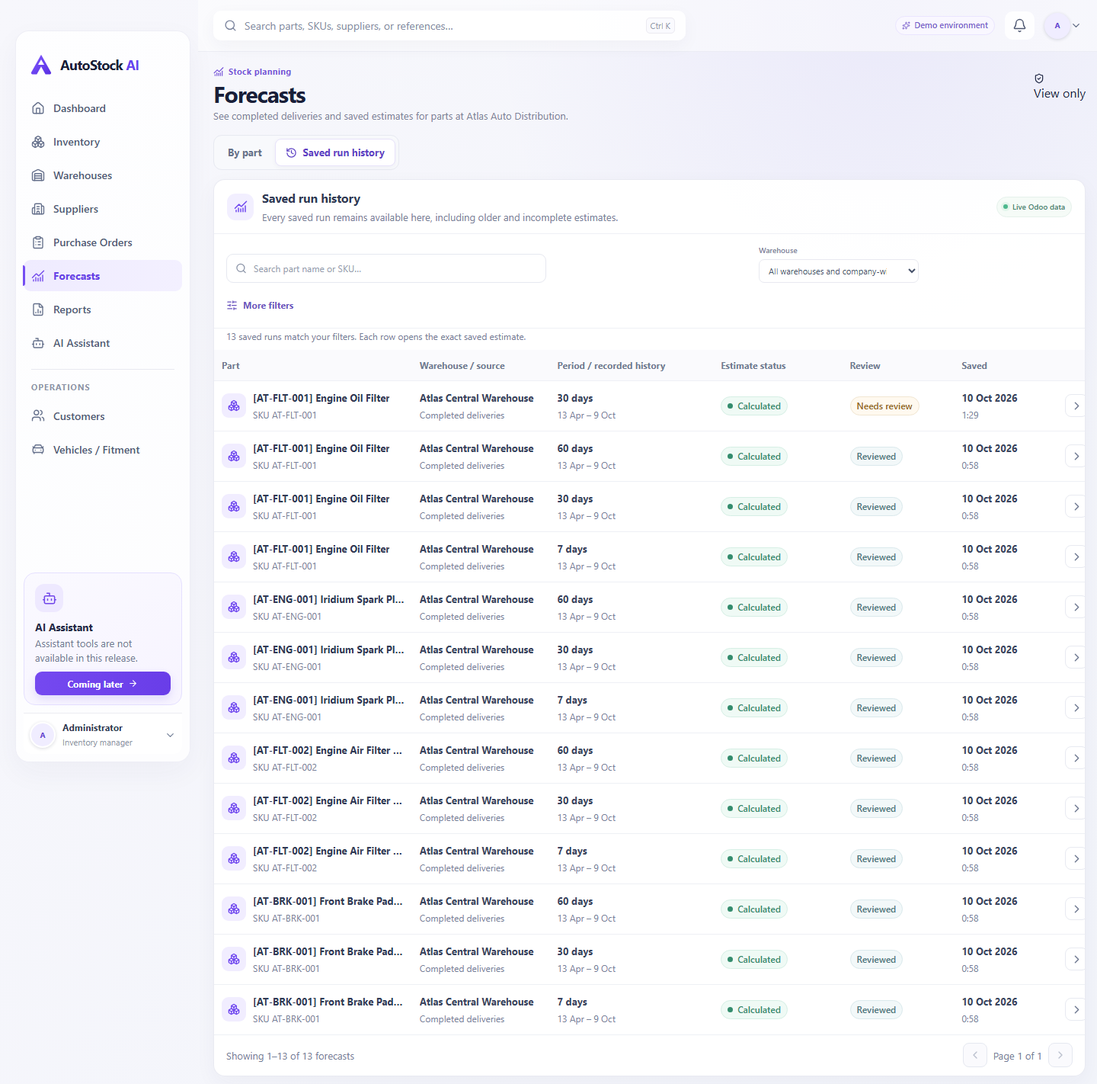
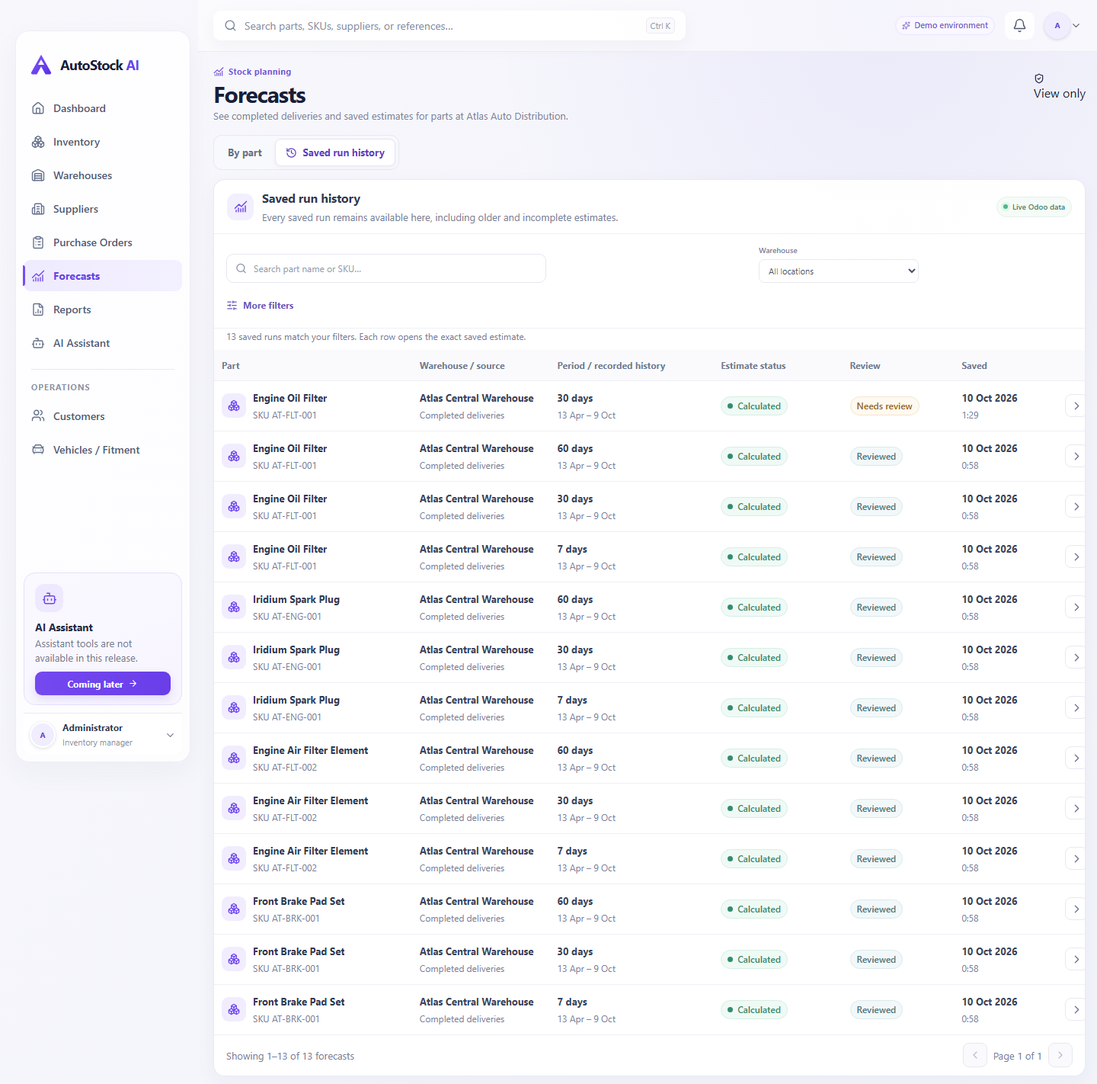
Polish employee Forecasts labels

diff --git a/frontend/src/routes/forecasts.tsx b/frontend/src/routes/forecasts.tsx
@@ -19,7 +19,7 @@ import { ProductSearchDialog, type ProductSearchItem } from '@/components/gate-t
 import { WorkspaceSession, type WorkspaceSessionValue } from '@/components/workspace-session'
 import { useDebounce } from '@/hooks/use-debounce'
 import { formatQuantity } from '@/lib/dashboard'
-import { buildForecastChartPoints, formatForecastDate, formatForecastDateTime, formatForecastTime, type ForecastChartPoint } from '@/lib/forecasts'
+import { buildForecastChartPoints, formatEmployeeForecastTotal, formatForecastDate, formatForecastDateTime, formatForecastTime, type ForecastChartPoint } from '@/lib/forecasts'
 import '@/styles/inventory.css'
 import '@/styles/forecasts.css'
 
@@ -119,19 +119,6 @@ function PartPagination({ page, hasPrevious, hasNext, onPage }: {
   return <div className="forecast-pagination" aria-label="Part results pages"><span>Part results · page {page}</span><div><button type="button" aria-label="Previous part results page" disabled={!hasPrevious} onClick={() => onPage(page - 1)}><ChevronLeft size={16} /></button><span>Page {page}</span><button type="button" aria-label="Next part results page" disabled={!hasNext} onClick={() => onPage(page + 1)}><ChevronRight size={16} /></button></div></div>
 }
 
-function formatEstimatedUnits(value: number, rounding: number) {
-  let scaled = rounding
-  let decimalPlaces = 0
-  while (decimalPlaces < 6 && Math.abs(scaled - Math.round(scaled)) > 1e-8) {
-    scaled *= 10
-    decimalPlaces += 1
-  }
-  return new Intl.NumberFormat(undefined, {
-    minimumFractionDigits: decimalPlaces,
-    maximumFractionDigits: decimalPlaces,
-  }).format(value)
-}
-
 function partEstimateMessage(entry: ForecastPartHorizon) {
   if (!entry.latest_run) return `No ${entry.horizon_days}-day estimate is saved for this part and warehouse.`
   if (entry.estimate.status === 'available') return ''
@@ -176,7 +163,7 @@ function ForecastPartRow({ part, view, timezone, onShowHistory }: {
       {run && <div className="forecast-part-statuses"><ForecastPill run={run as ForecastListRun} /><span className={`forecast-review ${run.review_status === 'reviewed' ? 'is-reviewed' : 'is-unreviewed'}`}>{reviewLabel(run.review_status)}</span></div>}
       {estimate.status === 'available' && run && estimate.estimated_units !== false && estimate.uom_rounding !== false && estimate.uom ? <>
         <span className="forecast-part-field-label">Estimated deliveries</span>
-        <strong className="forecast-estimate-total" data-testid="forecast-estimated-total">{formatEstimatedUnits(estimate.estimated_units, estimate.uom_rounding)} {estimate.uom}</strong>
+        <strong className="forecast-estimate-total" data-testid="forecast-estimated-total">{formatEmployeeForecastTotal(estimate.estimated_units, estimate.uom_rounding, estimate.uom)}</strong>
         <span className="forecast-estimate-range" data-testid="forecast-estimate-range">{dateRange}</span>
         {estimate.window_status === 'ended' && <small className="forecast-window-note">This saved estimate period has ended.</small>}
         {estimate.window_status === 'in_progress' && <small className="forecast-window-note">This saved estimate period is in progress.</small>}
@@ -246,7 +233,7 @@ function ForecastOverview({ companyId, session, onSwitchCompany, onSignOut }: Wo
         <div className="forecast-catalog-heading"><div className="inventory-catalog-title"><span className="inventory-catalog-icon"><ChartNoAxesCombined size={18} aria-hidden="true" /></span><div><h2 id="forecast-list-title">{view === 'parts' ? 'Forecasts by part' : 'Saved run history'}</h2><p>{view === 'parts' ? 'Choose a part and period to see its latest saved estimate.' : 'Every saved run remains available here, including older and incomplete estimates.'}</p></div></div><span className="inventory-live-mark"><i aria-hidden="true" /> Live Odoo data</span></div>
         <div className="forecast-filter-area">
           <label className="inventory-search-field"><Search size={16} aria-hidden="true" /><span className="sr-only">{view === 'parts' ? 'Search forecast parts by name or SKU' : 'Search saved forecasts by part name or SKU'}</span><input value={query} onChange={(event) => { setQuery(event.target.value); setPartsPage(1); setHistoryPage(1) }} placeholder="Search part name or SKU…" type="search" autoComplete="off" />{query && <button type="button" aria-label="Clear forecast search" onClick={() => { setQuery(''); setPartsPage(1); setHistoryPage(1) }}>Clear</button>}</label>
-          <label className="inventory-select-wrap forecast-warehouse-control"><span>Warehouse</span><select aria-label="Choose forecast warehouse" value={warehouseId ?? ''} onChange={(event) => { setWarehouseId(event.target.value ? Number(event.target.value) : undefined); setPartsPage(1); setHistoryPage(1) }}><option value="">All warehouses and company-wide</option>{warehouseOptions?.map((warehouse) => <option key={warehouse.id} value={warehouse.id}>{warehouse.name}</option>)}</select></label>
+          <label className="inventory-select-wrap forecast-warehouse-control"><span>Warehouse</span><select aria-label="Choose forecast warehouse" aria-describedby="forecast-warehouse-help" value={warehouseId ?? ''} onChange={(event) => { setWarehouseId(event.target.value ? Number(event.target.value) : undefined); setPartsPage(1); setHistoryPage(1) }}><option value="">All locations</option>{warehouseOptions?.map((warehouse) => <option key={warehouse.id} value={warehouse.id}>{warehouse.name}</option>)}</select><span id="forecast-warehouse-help" className="sr-only">Includes warehouse-specific and company-wide forecasts.</span></label>
           {view === 'history' && <details className="forecast-advanced-filters"><summary><SlidersHorizontal size={15} aria-hidden="true" />More filters</summary><div className="forecast-advanced-grid">
             <label className="inventory-select-wrap"><span>Forecast period</span><select aria-label="Filter forecasts by horizon" value={horizonDays} onChange={(event) => { setHorizonDays(event.target.value === 'all' ? 'all' : Number(event.target.value) as 7 | 30 | 60); setHistoryPage(1) }}><option value="all">All periods</option><option value="7">7 days</option><option value="30">30 days</option><option value="60">60 days</option></select></label>
             <label className="inventory-select-wrap"><span>Estimate status</span><select aria-label="Filter forecasts by run status" value={state} onChange={(event) => { setState(event.target.value as RunState); setHistoryPage(1) }}><option value="all">All statuses</option><option value="queued">Waiting to run</option><option value="running">Calculating</option><option value="completed">Calculated</option><option value="insufficient_history">Not enough history</option><option value="no_observed_demand">No deliveries recorded</option><option value="failed">Could not calculate</option></select></label>
@@ -312,7 +299,7 @@ function ForecastChart({ run, timezone }: { run: ForecastDetailData['run']; time
   if (!run.observations.length && !run.predictions.length) return <ForecastState title="No chart data is available">This saved run has no recorded daily deliveries or forecast points to display.</ForecastState>
 
   return <section className="forecast-chart-panel panel" aria-labelledby="forecast-chart-title">
-    <div className="forecast-detail-section-heading"><div><span className="inventory-catalog-icon"><ChartNoAxesCombined size={18} aria-hidden="true" /></span><div><h2 id="forecast-chart-title">Past deliveries and saved estimate</h2><p>Past bars show completed deliveries. The line shows the saved estimate after that history.</p></div></div><span className="forecast-chart-uom">{run.uom || 'Synthetic units'} per day</span></div>
+    <div className="forecast-detail-section-heading"><div><span className="inventory-catalog-icon"><ChartNoAxesCombined size={18} aria-hidden="true" /></span><div><h2 id="forecast-chart-title">Past deliveries and saved estimate</h2><p>The gray line shows past deliveries; the purple dashed line shows the saved estimate.</p></div></div><span className="forecast-chart-uom">{run.uom || 'Synthetic units'} per day</span></div>
     {run.source_type === 'completed_deliveries' && <p className="forecast-demand-note"><CircleHelp size={14} aria-hidden="true" />Completed deliveries are a fulfilled-sales record, not a measure of all customer demand. Stockouts can limit what the history shows.</p>}
     <div className="forecast-chart-legend"><span><i className="is-history" />Completed deliveries</span><span><i className="is-future" />Saved estimate</span>{run.predictions.length > 0 && <span><i className="is-range" />Planning range</span>}</div>
     <div className="forecast-chart-wrap" role="img" aria-label={`Daily completed deliveries and forecast for ${run.product_name}`} data-first-forecast-day={firstPrediction?.day} data-first-forecast-units={firstPrediction ? String(firstPrediction.units) : undefined} data-first-forecast-lower={firstPrediction ? String(firstPrediction.lower_heuristic) : undefined} data-first-forecast-upper={firstPrediction ? String(firstPrediction.upper_heuristic) : undefined}>
@@ -376,7 +363,7 @@ function ForecastEstimateSummary({ detail, timezone }: { detail: ForecastDetailD
   return <section className="forecast-estimate-summary panel" aria-label="Selected forecast summary">
     <div className="forecast-summary-main">
       <div className="forecast-summary-period"><span>Selected period</span><strong>{count(run.horizon_days)} days</strong><small>{isAvailable ? `${formatForecastDate(estimate.date_start as string, timezone, { year: 'numeric' })} – ${formatForecastDate(estimate.date_end as string, timezone, { year: 'numeric' })}` : 'Saved date range is unavailable'}</small>{isAvailable && <small className="forecast-summary-window">{estimate.window_status === 'ended' ? 'This saved period has ended.' : estimate.window_status === 'in_progress' ? 'This saved period is in progress.' : `This saved period starts ${formatForecastDate(estimate.date_start as string, timezone, { year: 'numeric' })}.`}</small>}</div>
-      <div className="forecast-summary-total" aria-live="polite"><span>{isAvailable ? 'Estimated deliveries' : 'Estimate total'}</span>{isAvailable ? <strong data-testid="forecast-estimated-total">{formatEstimatedUnits(estimate.estimated_units as number, estimate.uom_rounding as number)} {estimate.uom}</strong> : <p data-testid="forecast-estimate-unavailable">{detailEstimateMessage(estimate, run)}</p>}</div>
+      <div className="forecast-summary-total" aria-live="polite"><span>{isAvailable ? 'Estimated deliveries' : 'Estimate total'}</span>{isAvailable ? <strong data-testid="forecast-estimated-total">{formatEmployeeForecastTotal(estimate.estimated_units as number, estimate.uom_rounding as number, estimate.uom as string)}</strong> : <p data-testid="forecast-estimate-unavailable">{detailEstimateMessage(estimate, run)}</p>}</div>
     </div>
     <p className="forecast-restock-summary"><CircleHelp size={15} aria-hidden="true" />{restockSummary(guidance.status)}</p>
   </section>

diff --git a/frontend/tests/browser/forecasts.spec.ts b/frontend/tests/browser/forecasts.spec.ts
@@ -16,7 +16,7 @@ function session() {
 
 function estimate(status: 'missing' | 'incomplete' | 'not_completed' | 'available', horizon: 7 | 30 | 60) {
   if (status === 'available') return {
-    status, estimated_units: horizon * 2.4, uom: 'Units', uom_rounding: 1,
+    status, estimated_units: horizon === 30 ? 26.4 : horizon * 2.4, uom: 'Units', uom_rounding: 0.01,
     date_start: '2026-09-27', date_end: horizon === 7 ? '2026-10-03' : horizon === 30 ? '2026-10-26' : '2026-11-25',
     window_status: 'in_progress',
   }
@@ -180,12 +180,32 @@ test('part-first Forecasts fits desktop, tablet and mobile and sends search and 
   expect(browserErrors).toEqual([])
 })
 
+test('employee labels keep SKU separate, show approximate totals, explain the chart, and name all locations clearly', async ({ page }) => {
+  await installForecastRoutes(page)
+  await page.setViewportSize({ width: 1440, height: 1000 })
+  await page.goto('/forecasts')
+
+  const row = page.locator('.forecast-part-row[data-product-id="1001"][data-warehouse-id="10"]')
+  await expect(row.locator('.forecast-part-identity strong')).toHaveText('Front Brake Pad Set')
+  await expect(row.locator('.forecast-part-identity small')).toHaveText('SKU BP-FR-420')
+  await expect(row.getByTestId('forecast-estimated-total')).toHaveText('About 26.4 Units expected')
+  const warehouse = page.getByRole('combobox', { name: 'Choose forecast warehouse' })
+  await expect(warehouse.locator('option').first()).toHaveText('All locations')
+  await expect(warehouse).toHaveAttribute('aria-describedby', 'forecast-warehouse-help')
+  await expect(page.locator('#forecast-warehouse-help')).toHaveText('Includes warehouse-specific and company-wide forecasts.')
+
+  await row.getByRole('link', { name: /Open 30-day estimate/ }).click()
+  await expect(page.getByRole('heading', { name: 'Front Brake Pad Set', exact: true })).toBeVisible()
+  await expect(page.getByTestId('forecast-estimated-total')).toHaveText('About 26.4 Units expected')
+  await expect(page.getByText('The gray line shows past deliveries; the purple dashed line shows the saved estimate.')).toBeVisible()
+})
+
 test('forecast period controls show saved totals only for full daily series', async ({ page }) => {
   await installForecastRoutes(page)
   await page.setViewportSize({ width: 1440, height: 1000 })
   await page.goto('/forecasts')
   const row = page.locator('.forecast-part-row').filter({ hasText: 'Atlas Central Warehouse' }).first()
-  await expect(row.getByTestId('forecast-estimated-total')).toContainText('72 Units')
+  await expect(row.getByTestId('forecast-estimated-total')).toHaveText('About 26.4 Units expected')
   await expect(row.getByTestId('forecast-estimate-range')).toContainText('Sep 27, 2026')
   await row.getByRole('button', { name: '60 days' }).click()
   await expect(row).toContainText('A complete daily estimate is not available, so a total cannot be shown.')
@@ -211,7 +231,7 @@ test('saved history separates synthetic examples and exposes every review and ru
   await expect(page.locator('.forecast-table tbody tr').first()).toContainText('Needs review')
 })
 
-test('forecast detail leads with the exact saved estimate and keeps evidence collapsed', async ({ page }) => {
+test('forecast detail leads with an approximate saved estimate and keeps evidence collapsed', async ({ page }) => {
   await installForecastRoutes(page)
   const writes: string[] = []
   const browserErrors: string[] = []
@@ -223,7 +243,7 @@ test('forecast detail leads with the exact saved estimate and keeps evidence col
   await expect(page.getByRole('heading', { name: 'Front Brake Pad Set', exact: true })).toBeVisible()
   await expect(page.getByText('Atlas Central Warehouse · Atlas Auto Distribution')).toBeVisible()
   await expect(page.getByText('Estimated deliveries', { exact: true })).toBeVisible()
-  await expect(page.getByTestId('forecast-estimated-total')).toHaveText('72 Units')
+  await expect(page.getByTestId('forecast-estimated-total')).toHaveText('About 26.4 Units expected')
   await expect(page.getByText('Reviewed', { exact: true })).toBeVisible()
   await expect(page.getByText('This saved estimate is not currently used for restock guidance.')).toBeVisible()
   await expect(page.getByRole('heading', { name: 'Past deliveries and saved estimate' })).toBeVisible()

diff --git a/frontend/src/lib/forecasts.test.ts b/frontend/src/lib/forecasts.test.ts
@@ -1,5 +1,5 @@
 import { describe, expect, it } from 'vitest'
-import { buildForecastChartPoints, formatForecastDate, formatForecastDateTime, formatForecastTime } from './forecasts'
+import { buildForecastChartPoints, formatEmployeeForecastTotal, formatForecastDate, formatForecastDateTime, formatForecastTime } from './forecasts'
 
 describe('forecast chart data', () => {
   it('keeps the first saved prediction and its heuristic range distinct from the last actual', () => {
@@ -74,5 +74,16 @@ describe('forecast date formatting', () => {
     )
     expect(formatForecastDate('2026-02-31', timezone)).toBe('Date unavailable')
     expect(formatForecastDateTime('not a date', timezone)).toBe('Date unavailable')
+  })
+})
+
+describe('employee-facing forecast totals', () => {
+  it('marks saved totals as approximate and removes unnecessary trailing zeros', () => {
+    expect(formatEmployeeForecastTotal(26.4, 0.01, 'Units')).toBe('About 26.4 Units expected')
+    expect(formatEmployeeForecastTotal(41, 0.01, 'Units')).toBe('About 41 Units expected')
+  })
+
+  it('preserves useful fractional precision for fractional units of measure', () => {
+    expect(formatEmployeeForecastTotal(1.25, 0.25, 'kg')).toBe('About 1.25 kg expected')
   })
 })

diff --git a/frontend/src/lib/forecasts.ts b/frontend/src/lib/forecasts.ts
@@ -12,6 +12,21 @@ export type ForecastChartPoint = {
   forecastAnchor?: boolean
 }
 
+/** Present the saved total as an estimate without implying precision the source does not support. */
+export function formatEmployeeForecastTotal(value: number, rounding: number, uom: string) {
+  let scaled = rounding
+  let decimalPlaces = 0
+  while (decimalPlaces < 6 && Math.abs(scaled - Math.round(scaled)) > 1e-8) {
+    scaled *= 10
+    decimalPlaces += 1
+  }
+  const amount = new Intl.NumberFormat(undefined, {
+    minimumFractionDigits: 0,
+    maximumFractionDigits: decimalPlaces,
+  }).format(value)
+  return `About ${amount} ${uom} expected`
+}
+
 type ForecastChartInput = Pick<ForecastDetailData['run'], 'observations' | 'predictions'>
 
 /**

diff --git a/addons/autostock_ai/models/forecast.py b/addons/autostock_ai/models/forecast.py
@@ -296,8 +296,10 @@ class AutoStockForecastRun(models.Model):
                 {
                     "id": run.id,
                     "product_id": run.product_id.id if run.product_id else False,
-                    "product_name": run.product_name or (
-                        run.product_id.display_name if run.product_id else run.sku
+                    "product_name": (
+                        run.product_id.with_context(display_default_code=False).display_name
+                        if run.source_type == REAL_SOURCE and run.product_id
+                        else run.product_name or run.sku
                     ),
                     "sku": run.sku,
                     "warehouse_id": run.warehouse_id.id if run.warehouse_id else False,
@@ -571,7 +573,9 @@ class AutoStockForecastRun(models.Model):
             parts.append(
                 {
                     "product_id": product.id,
-                    "product_name": product.display_name,
+                    "product_name": product.with_context(
+                        display_default_code=False
+                    ).display_name,
                     "sku": product.default_code or str(product.id),
                     "warehouse_id": warehouse_record.id if warehouse_record else False,
                     "warehouse_name": warehouse_record.display_name if warehouse_record else False,
@@ -995,7 +999,11 @@ class AutoStockForecastRun(models.Model):
                 if run.source_type == SYNTHETIC_SOURCE
                 else _("Completed deliveries, with returns recorded separately"),
                 "sku": run.sku,
-                "product_name": run.product_name,
+                "product_name": (
+                    product.with_context(display_default_code=False).display_name
+                    if source_type == REAL_SOURCE and product
+                    else run.product_name or run.sku
+                ),
                 "horizon_days": int(run.horizon_days),
                 "history_start": run.history_start_date.isoformat(),
                 "history_end": run.history_end_date.isoformat(),

diff --git a/addons/autostock_ai/tests/test_forecast_api.py b/addons/autostock_ai/tests/test_forecast_api.py
@@ -203,10 +203,23 @@ class TestAutoStockForecastApi(HttpCase):
             f"/autostock/api/v1/forecasts/parts?company_id={company_b.id}&q=G7-SHARED-ROTOR"
         )
         self.assertEqual(parts_a["company"]["id"], company_a.id)
-        self.assertEqual([row["product_name"] for row in parts_a["parts"]], [shared_product.display_name])
+        readable_name = shared_product.with_context(
+            display_default_code=False
+        ).display_name
+        self.assertEqual([row["product_name"] for row in parts_a["parts"]], [readable_name])
+        self.assertNotIn(shared_product.default_code, parts_a["parts"][0]["product_name"])
+        self.assertEqual(parts_a["parts"][0]["sku"], shared_product.default_code)
         self.assertEqual(parts_a["parts"][0]["horizons"][0]["latest_run"]["id"], run_a.id)
         self.assertEqual(parts_b["company"]["id"], company_b.id)
         self.assertEqual(parts_b["parts"][0]["horizons"][0]["latest_run"]["id"], run_b.id)
+        history_a = self._get_json(
+            f"/autostock/api/v1/forecasts?company_id={company_a.id}&q=G7-SHARED-ROTOR"
+        )
+        self.assertEqual(history_a["runs"][0]["product_name"], readable_name)
+        detail_a = self._get_json(
+            f"/autostock/api/v1/forecasts/{run_a.id}?company_id={company_a.id}"
+        )
+        self.assertEqual(detail_a["run"]["product_name"], readable_name)
         self._get_json(
             f"/autostock/api/v1/forecasts/parts?company_id={company_a.id}&warehouse_id={warehouse_b.id}",
             expected_status=403,

diff --git a/docs/qa/issue-34-gate-7.md b/docs/qa/issue-34-gate-7.md
@@ -4,6 +4,13 @@
 
 This update keeps the work within Gate 7. Forecasts opens on **By part**, while **Saved run history** remains available for every saved record and all existing evidence. The screen is read-only and reuses saved Odoo forecasts and the current risk/replenishment service. The forecast engine, dashboard, Inventory, Warehouses, and Suppliers are unchanged.
 
+## Employee-usability review follow-up
+
+- Odoo returns the linked product's `display_name` with `display_default_code=False` for the Forecasts overview, history, and detail. SKU remains in its own field, and Odoo still supplies variant-specific names. Saved run IDs and prediction values are unchanged.
+- Employee-facing totals say **About … expected** and omit redundant trailing zeroes at the Odoo unit's displayed precision. The saved total in the API stays exact; fractional units keep their useful precision. No reorder quantity or forecast calculation changed.
+- The chart description now identifies the gray history line and purple dashed estimate line. The warehouse selector says **All locations** and its accessible help explains that warehouse-specific and company-wide forecasts are included.
+- Focused regressions cover Odoo list/group/detail product labels and separate SKUs, fractional and whole-unit display, the chart description, and the warehouse option/help.
+
 ## Employee-first behavior and data boundaries
 
 - `GET /autostock/api/v1/forecasts/parts` groups the complete company-visible real forecast set by stable product and warehouse IDs, then applies server-side search, warehouse selection, and pagination. The page shows its result page without implying a catalog-wide total.
@@ -23,18 +30,18 @@ This update keeps the work within Gate 7. Forecasts opens on **By part**, while 
 | Offline forecast evaluation | Passed: 6 labeled synthetic fixture series evaluated for a 30-day holdout. This is test evidence, not Atlas/customer accuracy evidence. |
 | `npm run lint` | Passed |
 | `npm run typecheck` | Passed |
-| `npm run test:unit` | Passed: 8 tests |
+| `npm run test:unit` | Passed: 10 tests |
 | `npm run test:contract` | Passed: 16 tests, including estimate completeness and the saved-parts contract |
-| `npm run test:browser` | Passed: 34 tests across Dashboard, Inventory, Warehouses, Suppliers, and Forecasts; includes server filters, company switching, detail evidence, partial-series handling, timezone formatting, navigation, and desktop/tablet/mobile layouts |
+| `npm run test:browser` | Passed: 35 tests across Dashboard, Inventory, Warehouses, Suppliers, and Forecasts; includes server filters, company switching, detail evidence, partial-series handling, timezone formatting, employee copy, navigation, and desktop/tablet/mobile layouts |
 | `npm run build` | Passed: production Vite build |
 | Odoo 19 + PostgreSQL 16 integration suite | Passed: **60 actual test cases, 0 failures, 0 errors**. Odoo's broader statistics counter reports 74 tests. The isolated database was in a disposable container with no showroom data attached. The two unattached anonymous PostgreSQL test volumes created during the runs were verified and removed; all named showroom volumes remain. |
-| GitHub Actions | Passed: [run 38185654129](https://github.com/MouhssineElBoumshouli/autostock-ai/actions/runs/38185654129); Python, React frontend, and Odoo 19 integration jobs all succeeded on commit `ae9d65003fb0a53a70997d34e0aeb62223e89959`. |
+| GitHub Actions | Previous PR-head run [38185920925](https://github.com/MouhssineElBoumshouli/autostock-ai/actions/runs/38185920925) passed Python, React frontend, and Odoo 19 integration. CI for this employee-usability follow-up will be recorded after the update is pushed. |
 
 The Odoo integration coverage includes a 1,002-run grouped catalog, server-side pagination/search, the newest failed/unreviewed run, no history, one-day and missing-day series, exact saved daily totals/date boundaries, ended estimate windows, demo/real separation, Sales-restricted access, and company/warehouse isolation. The >1,000 catalog integration case passed; its warmed API response grouped the 25 requested product/warehouse groups in under 0.1 seconds in the isolated run.
 
 ## Live Atlas browser QA and screenshots
 
-The authenticated Atlas Auto Distribution showroom was opened in the React app through the existing Odoo session. The live capture used Atlas part `AT-BRK-001` at **Atlas Central Warehouse**, a completed saved 30-day run for **2026-10-10 through 2026-11-08**. The unfiltered first page returned four company-visible product/warehouse groups; the capture also searched the selected SKU, waited for the matching Odoo response, and verified the exact part/warehouse result before opening its detail. Saved run history retained the selected real record.
+The authenticated Atlas Auto Distribution showroom was opened in the React app through the existing Odoo session. The live capture used Atlas part `AT-BRK-001` at **Atlas Central Warehouse**, a completed saved 30-day run for **2026-10-10 through 2026-11-08**. The visible title is `Front Brake Pad Set`, with the SKU shown once beneath it; the total is presented as an estimate with unnecessary zeroes removed. The unfiltered first page returned four company-visible product/warehouse groups; the capture also searched the selected SKU, waited for the matching Odoo response, and verified the exact part/warehouse result and unchanged saved total before opening its detail. Saved run history retained the selected real record.
 
 The capture checked page overflow at 1440px, 1024px, and 390px. It recorded **0 browser page errors, 0 console errors, and 0 failed AutoStock API responses**. Screenshots show the real By part list, exact-run detail, and Saved run history at all three sizes:
 
